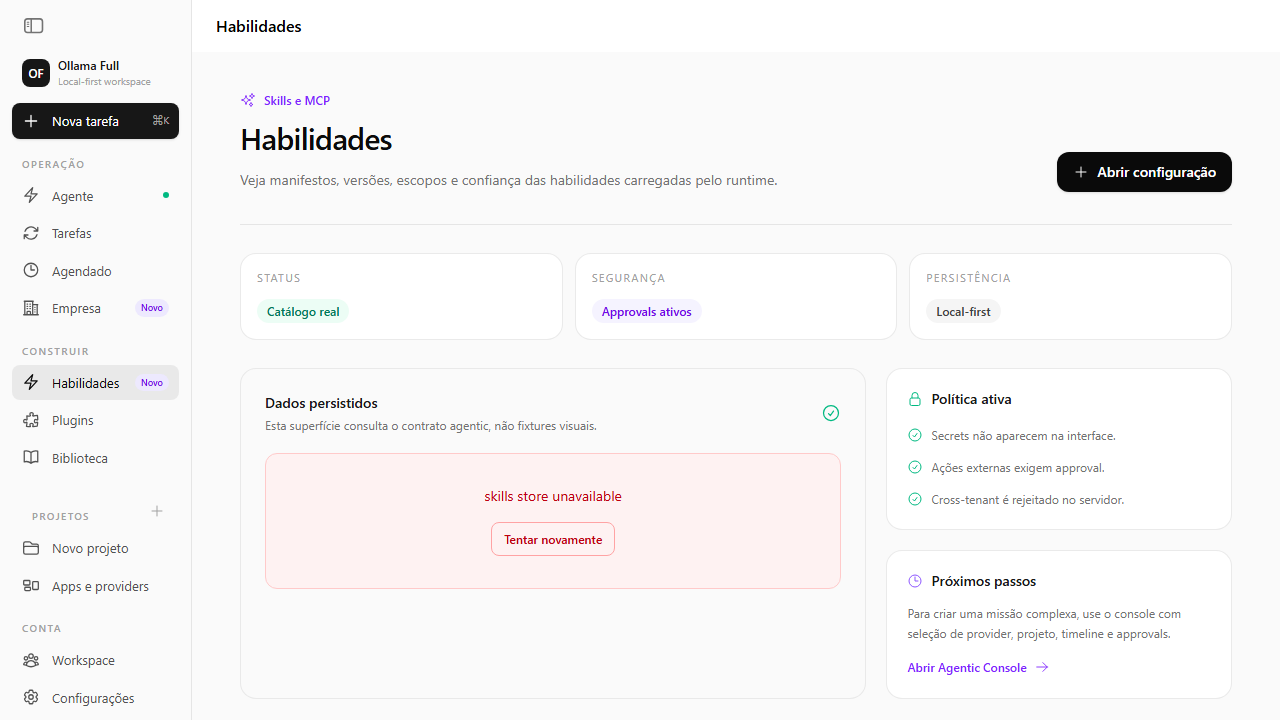
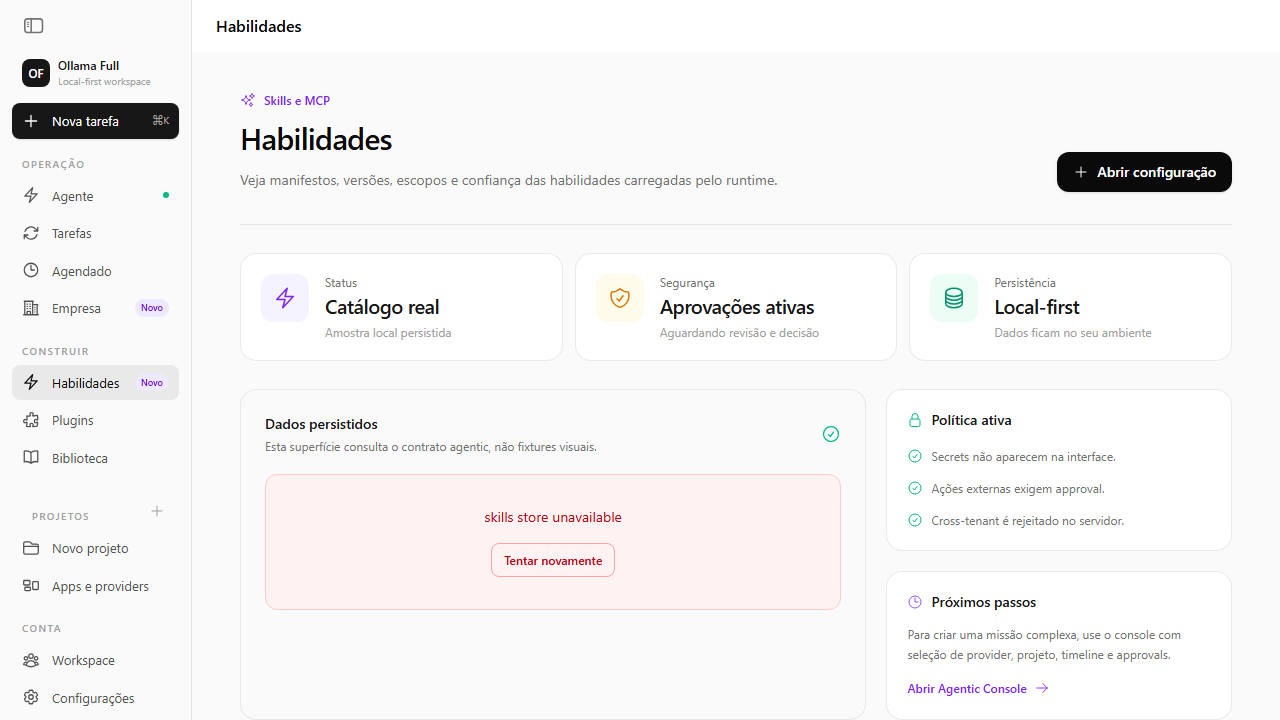
feat(ui): eleva design system das telas do shell às referências conceituais
Aproxima as telas do shell das referências visuais do produto (light/editorial):

- StatCard reformulado para o padrão das referências: tile de ícone colorido
  (violeta/âmbar/verde) + rótulo + valor grande + legenda, em vez do pill simples.
  Como o componente é compartilhado, o novo visual vale para Tarefas, Agendado,
  Habilidades, Projetos, Biblioteca e Plugins de uma vez.
- Ícones Bolt/ShieldCheck/CircleStack e legendas contextuais por card.
- Evidências (docs/evidencias/*) regeneradas com o novo design.
- Baseado nas referências ollama-full-reference-images (concept, direção light).
  Sem tocar internal/agent, server ou deploy/postgres; sem inventar capacidade.

diff --git a/app/ui/app/src/components/ProductWorkspacePage.tsx b/app/ui/app/src/components/ProductWorkspacePage.tsx
@@ -1,5 +1,5 @@
 import { Link, useNavigate } from "@tanstack/react-router";
-import { useCallback, useEffect, useMemo, useRef, useState } from "react";
+import { useCallback, useEffect, useMemo, useRef, useState, type ReactNode } from "react";
 import { API_BASE } from "@/lib/config";
 import {
   createProject,
@@ -30,11 +30,14 @@ import {
 import type { AgentConnector, AgentConnectorCatalogEntry, AgentMCPServer, AgentMission, AgentProject, AgentSchedule, AgentSkill } from "@/lib/agenticClient";
 import {
   ArrowRightIcon,
+  BoltIcon,
   CheckCircleIcon,
+  CircleStackIcon,
   ClockIcon,
   FolderOpenIcon,
   LockClosedIcon,
   PlusIcon,
+  ShieldCheckIcon,
   SparklesIcon,
   TrashIcon,
 } from "@heroicons/react/24/outline";
@@ -53,9 +56,9 @@ const pageCopy: Record<ProductPageKind, { title: string; eyebrow: string; descri
   tasks: { title: "Tarefas", eyebrow: "Inbox de missões", description: "Veja missões em execução, aguardando approval, concluídas ou em recuperação.", action: "Nova tarefa" },
 };
 
-function StatCard({ label, value, tone = "neutral" }: { label: string; value: string; tone?: "neutral" | "green" | "violet" }) {
-  const toneClass = tone === "green" ? "bg-emerald-50 text-emerald-700 dark:bg-emerald-950/30 dark:text-emerald-300" : tone === "violet" ? "bg-violet-50 text-violet-700 dark:bg-violet-950/30 dark:text-violet-300" : "bg-neutral-100 text-neutral-700 dark:bg-neutral-800 dark:text-neutral-300";
-  return <div className="rounded-2xl border border-neutral-200/80 bg-white p-4 dark:border-neutral-800 dark:bg-neutral-900"><div className="text-[11px] uppercase tracking-[0.12em] text-neutral-400">{label}</div><div className={`mt-3 inline-flex rounded-full px-2.5 py-1 text-xs font-medium ${toneClass}`}>{value}</div></div>;
+function StatCard({ label, value, subtitle, tone = "neutral", icon }: { label: string; value: string; subtitle?: string; tone?: "neutral" | "green" | "violet" | "amber"; icon?: ReactNode }) {
+  const toneClass = tone === "green" ? "bg-emerald-50 text-emerald-600 dark:bg-emerald-950/30 dark:text-emerald-300" : tone === "violet" ? "bg-violet-50 text-violet-600 dark:bg-violet-950/30 dark:text-violet-300" : tone === "amber" ? "bg-amber-50 text-amber-600 dark:bg-amber-950/30 dark:text-amber-300" : "bg-neutral-100 text-neutral-600 dark:bg-neutral-800 dark:text-neutral-300";
+  return <div className="rounded-2xl border border-neutral-200/80 bg-white p-5 dark:border-neutral-800 dark:bg-neutral-900"><div className="flex items-start gap-4">{icon && <div className={`flex h-12 w-12 shrink-0 items-center justify-center rounded-xl ${toneClass}`}>{icon}</div>}<div className="min-w-0"><p className="text-xs text-neutral-500 dark:text-neutral-400">{label}</p><p className="mt-0.5 text-xl font-semibold tracking-tight text-neutral-900 dark:text-white">{value}</p>{subtitle && <p className="mt-1 text-xs text-neutral-400 dark:text-neutral-500">{subtitle}</p>}</div></div></div>;
 }
 
 function EmptyState({ message, action, onAction }: { message: string; action?: string; onAction?: () => void }) {
@@ -341,5 +344,5 @@ export function ProductWorkspacePage({ kind, createdMissionId }: { kind: Product
 {kind === "projects" && <section className="mt-6 grid gap-3 rounded-2xl border border-neutral-200/80 bg-white p-4 dark:border-neutral-800 dark:bg-neutral-900 md:grid-cols-[1fr_1fr_auto]"><input id="new-project-name" aria-label="Nome do novo projeto" value={projectName} onChange={(event) => setProjectName(event.target.value)} placeholder="Nome do projeto" className="h-10 rounded-xl border border-neutral-300 bg-transparent px-3 text-sm dark:border-neutral-700" /><input aria-label="Workspace do novo projeto" value={projectRoot} onChange={(event) => setProjectRoot(event.target.value)} placeholder="Workspace (opcional)" className="h-10 rounded-xl border border-neutral-300 bg-transparent px-3 text-sm dark:border-neutral-700" /><button type="button" onClick={() => void createNewProject()} disabled={!projectName.trim() || Boolean(pendingActions["create-project"])} aria-busy={Boolean(pendingActions["create-project"])} className="h-10 rounded-xl bg-neutral-900 px-4 text-sm text-white disabled:opacity-40 dark:bg-white dark:text-neutral-900">{pendingActions["create-project"] ? "Criando…" : "Criar"}</button></section>}
 {kind === "scheduled" && <section className="mt-6 grid gap-3 rounded-2xl border border-neutral-200/80 bg-white p-4 dark:border-neutral-800 dark:bg-neutral-900 md:grid-cols-[1.4fr_0.5fr_0.8fr_auto]"><input id="new-schedule-objective" aria-label="Objetivo do novo schedule" value={scheduleObjective} onChange={(event) => setScheduleObjective(event.target.value)} placeholder="Objetivo recorrente" className="h-10 rounded-xl border border-neutral-300 bg-transparent px-3 text-sm dark:border-neutral-700" /><input type="number" min="1" value={scheduleInterval} onChange={(event) => setScheduleInterval(event.target.value)} aria-label="Intervalo em segundos" className="h-10 rounded-xl border border-neutral-300 bg-transparent px-3 text-sm dark:border-neutral-700" /><select value={scheduleProject} onChange={(event) => setScheduleProject(event.target.value)} aria-label="Projeto do schedule" className="h-10 rounded-xl border border-neutral-300 bg-transparent px-3 text-sm dark:border-neutral-700"><option value="">Sem projeto</option>{projects.map((project) => <option key={project.id} value={project.id}>{project.name}</option>)}</select><button type="button" onClick={() => void createNewSchedule()} disabled={!scheduleObjective.trim() || Boolean(pendingActions["create-schedule"])} aria-busy={Boolean(pendingActions["create-schedule"])} className="h-10 rounded-xl bg-neutral-900 px-4 text-sm text-white disabled:opacity-40 dark:bg-white dark:text-neutral-900">{pendingActions["create-schedule"] ? "Agendando…" : "Agendar"}</button></section>}
 
-<div className="mt-7 grid gap-3 sm:grid-cols-3"><StatCard label="Status" value={kind === "tasks" ? `${runningMissions} em execução` : kind === "projects" ? `${projects.length} projetos` : kind === "scheduled" ? `${schedules.length} schedules` : kind === "library" ? `${artifacts.length} artifacts` : "Catálogo real"} tone="green" /><StatCard label="Segurança" value="Approvals ativos" tone="violet" /><StatCard label="Persistência" value="Local-first" /></div><div className="mt-7 grid gap-5 lg:grid-cols-[1.45fr_0.8fr]"><section className="rounded-2xl border border-neutral-200/80 bg-neutral-50/50 p-6 dark:border-neutral-800 dark:bg-neutral-950/30"><div className="flex items-center justify-between"><div><h3 className="text-sm font-semibold text-neutral-900 dark:text-white">Dados persistidos</h3><p className="mt-1 text-xs text-neutral-500 dark:text-neutral-400">Esta superfície consulta o contrato agentic, não fixtures visuais.</p></div><CheckCircleIcon className="h-5 w-5 text-emerald-500" /></div><div className="mt-5">{renderContent()}</div></section><aside className="space-y-5"><section className="rounded-2xl border border-neutral-200/80 bg-white p-5 dark:border-neutral-800 dark:bg-neutral-900"><div className="flex items-center gap-2 text-sm font-semibold text-neutral-900 dark:text-white"><LockClosedIcon className="h-4 w-4 text-emerald-500" />Política ativa</div><ul className="mt-4 space-y-3 text-xs leading-5 text-neutral-500 dark:text-neutral-400"><li className="flex gap-2"><CheckCircleIcon className="mt-0.5 h-4 w-4 shrink-0 text-emerald-500" />Secrets não aparecem na interface.</li><li className="flex gap-2"><CheckCircleIcon className="mt-0.5 h-4 w-4 shrink-0 text-emerald-500" />Ações externas exigem approval.</li><li className="flex gap-2"><CheckCircleIcon className="mt-0.5 h-4 w-4 shrink-0 text-emerald-500" />Cross-tenant é rejeitado no servidor.</li></ul></section><section className="rounded-2xl border border-neutral-200/80 bg-white p-5 dark:border-neutral-800 dark:bg-neutral-900"><div className="flex items-center gap-2 text-sm font-semibold text-neutral-900 dark:text-white"><ClockIcon className="h-4 w-4 text-violet-500" />Próximos passos</div><p className="mt-3 text-xs leading-5 text-neutral-500 dark:text-neutral-400">Para criar uma missão complexa, use o console com seleção de provider, projeto, timeline e approvals.</p><Link to="/agentic" className="mt-4 inline-flex items-center gap-2 text-xs font-medium text-violet-600 dark:text-violet-300">Abrir Agentic Console <ArrowRightIcon className="h-3.5 w-3.5" /></Link></section></aside></div></div></div></SidebarLayout>;
+<div className="mt-7 grid gap-3 sm:grid-cols-3"><StatCard label="Status" tone="violet" icon={<BoltIcon className="h-6 w-6" />} value={kind === "tasks" ? `${runningMissions} em execução` : kind === "projects" ? `${projects.length} projetos` : kind === "scheduled" ? `${schedules.length} schedules` : kind === "library" ? `${artifacts.length} artifacts` : "Catálogo real"} subtitle="Amostra local persistida" /><StatCard label="Segurança" tone="amber" icon={<ShieldCheckIcon className="h-6 w-6" />} value="Aprovações ativas" subtitle="Aguardando revisão e decisão" /><StatCard label="Persistência" tone="green" icon={<CircleStackIcon className="h-6 w-6" />} value="Local-first" subtitle="Dados ficam no seu ambiente" /></div><div className="mt-7 grid gap-5 lg:grid-cols-[1.45fr_0.8fr]"><section className="rounded-2xl border border-neutral-200/80 bg-neutral-50/50 p-6 dark:border-neutral-800 dark:bg-neutral-950/30"><div className="flex items-center justify-between"><div><h3 className="text-sm font-semibold text-neutral-900 dark:text-white">Dados persistidos</h3><p className="mt-1 text-xs text-neutral-500 dark:text-neutral-400">Esta superfície consulta o contrato agentic, não fixtures visuais.</p></div><CheckCircleIcon className="h-5 w-5 text-emerald-500" /></div><div className="mt-5">{renderContent()}</div></section><aside className="space-y-5"><section className="rounded-2xl border border-neutral-200/80 bg-white p-5 dark:border-neutral-800 dark:bg-neutral-900"><div className="flex items-center gap-2 text-sm font-semibold text-neutral-900 dark:text-white"><LockClosedIcon className="h-4 w-4 text-emerald-500" />Política ativa</div><ul className="mt-4 space-y-3 text-xs leading-5 text-neutral-500 dark:text-neutral-400"><li className="flex gap-2"><CheckCircleIcon className="mt-0.5 h-4 w-4 shrink-0 text-emerald-500" />Secrets não aparecem na interface.</li><li className="flex gap-2"><CheckCircleIcon className="mt-0.5 h-4 w-4 shrink-0 text-emerald-500" />Ações externas exigem approval.</li><li className="flex gap-2"><CheckCircleIcon className="mt-0.5 h-4 w-4 shrink-0 text-emerald-500" />Cross-tenant é rejeitado no servidor.</li></ul></section><section className="rounded-2xl border border-neutral-200/80 bg-white p-5 dark:border-neutral-800 dark:bg-neutral-900"><div className="flex items-center gap-2 text-sm font-semibold text-neutral-900 dark:text-white"><ClockIcon className="h-4 w-4 text-violet-500" />Próximos passos</div><p className="mt-3 text-xs leading-5 text-neutral-500 dark:text-neutral-400">Para criar uma missão complexa, use o console com seleção de provider, projeto, timeline e approvals.</p><Link to="/agentic" className="mt-4 inline-flex items-center gap-2 text-xs font-medium text-violet-600 dark:text-violet-300">Abrir Agentic Console <ArrowRightIcon className="h-3.5 w-3.5" /></Link></section></aside></div></div></div></SidebarLayout>;
 }
